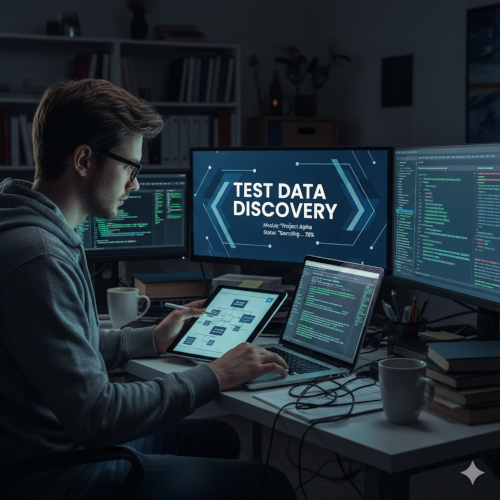
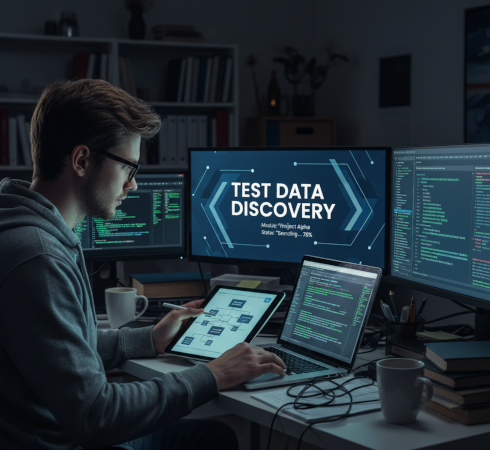
DT_01

diff --git a/index.html b/index.html
@@ -2,6 +2,8 @@
 <html lang="es" itemscope itemtype="https://schema.org/WebApplication">
 
 <head>
+    <meta charset="utf-8">
+    <meta name="viewport" content="width=device-width, initial-scale=1, shrink-to-fit=no">
     <!-- Google Analytics / Tag Manager -->
     <script async src="https://www.googletagmanager.com/gtag/js?id=G-YPGC69YD28"></script>
     <script>
@@ -17,6 +19,10 @@
     <meta name="description" content="Genera números de NIF, NIE y CIF válidos para pruebas y desarrollo. Herramienta gratuita online para validar y generar documentos de identificación españoles. Sin registro, uso inmediato.">
     <meta name="keywords" content="generador nif, generador nie, generador cif, generador dni, validar nif, validar nie, validar cif, validar dni, nif aleatorio, nie aleatorio, cif aleatorio, dni aleatorio, documento identidad españa, numero identificacion, herramientas desarrollo, pruebas software, validadores online, generadores gratis">
     <meta name="author" content="AdminKeys Develop">
+    <meta name="language" content="Spanish">
+    <meta name="geo.region" content="ES">
+    <meta name="geo.placename" content="España">
+    <meta name="referrer" content="strict-origin-when-cross-origin">
     <meta name="robots" content="index, follow, max-snippet:-1, max-image-preview:large, max-video-preview:-1">
     <meta name="googlebot" content="index, follow">
     <meta name="bingbot" content="index, follow">
@@ -29,9 +35,11 @@
     <meta property="og:url" content="https://generadordata.com/">
     <meta property="og:title" content="Generador de NIF, NIE y CIF Gratis | Validadores Online">
     <meta property="og:description" content="Genera números de NIF, NIE y CIF válidos para pruebas y desarrollo. Herramienta gratuita online para validar documentos de identificación españoles.">
-    <meta property="og:image" content="https://generadordata.com/assets/img/logoGeneradorData.png">
+    <meta property="og:image" content="https://generadordata.com/assets/img/Banner1200.png">
+    <meta property="og:image:secure_url" content="https://generadordata.com/assets/img/Banner1200.png">
     <meta property="og:image:width" content="1200">
-    <meta property="og:image:height" content="630">
+    <meta property="og:image:height" content="600">
+    <meta property="og:image:alt" content="GeneradorData: generador y validador gratuito de NIF, NIE, CIF y DNI">
     <meta property="og:site_name" content="GeneradorData">
     <meta property="og:locale" content="es_ES">
     
@@ -40,12 +48,11 @@
     <meta property="twitter:url" content="https://generadordata.com/">
     <meta property="twitter:title" content="Generador de NIF, NIE y CIF Gratis | Validadores Online">
     <meta property="twitter:description" content="Genera números de NIF, NIE y CIF válidos para pruebas y desarrollo. Herramienta gratuita online para validar documentos de identificación españoles.">
-    <meta property="twitter:image" content="https://generadordata.com/assets/img/logoGeneradorData.png">
+    <meta property="twitter:image" content="https://generadordata.com/assets/img/Banner1200.png">
+    <meta property="twitter:image:alt" content="GeneradorData: generador y validador gratuito de NIF, NIE, CIF y DNI">
     
     <!-- Technical Meta Tags -->
-    <meta charset="utf-8">
     <meta http-equiv="X-UA-Compatible" content="IE=edge">
-    <meta name="viewport" content="width=device-width, initial-scale=1, shrink-to-fit=no">
     <meta name="theme-color" content="#28a745">
     <meta name="msapplication-TileColor" content="#28a745">
     <meta name="apple-mobile-web-app-capable" content="yes">
@@ -80,10 +87,15 @@
     {
         "@context": "https://schema.org",
         "@type": "WebApplication",
+        "@id": "https://generadordata.com/#webapp",
         "name": "GeneradorData - Generador de NIF, NIE, CIF y DNI",
+        "alternateName": "GeneradorData",
         "description": "Herramienta gratuita online para generar y validar números de NIF, NIE, CIF y DNI españoles para pruebas y desarrollo",
-        "url": "https://generadordata.com",
+        "url": "https://generadordata.com/",
+        "inLanguage": "es-ES",
+        "isAccessibleForFree": true,
         "applicationCategory": "DeveloperApplication",
+        "applicationSubCategory": "Generador de datos de prueba",
         "operatingSystem": "Web Browser",
         "offers": {
             "@type": "Offer",
@@ -110,7 +122,32 @@
             "Validación de documentos",
             "Historial de generaciones",
             "Uso gratuito"
-        ]
+        ],
+        "potentialAction": {
+            "@type": "UseAction",
+            "target": "https://generadordata.com/"
+        }
+    }
+    </script>
+    <script type="application/ld+json">
+    {
+        "@context": "https://schema.org",
+        "@type": "WebSite",
+        "@id": "https://generadordata.com/#website",
+        "name": "GeneradorData",
+        "url": "https://generadordata.com/",
+        "inLanguage": "es-ES",
+        "publisher": {
+            "@type": "Organization",
+            "name": "GeneradorData",
+            "url": "https://generadordata.com/",
+            "logo": {
+                "@type": "ImageObject",
+                "url": "https://generadordata.com/assets/img/logoGeneradorData.png",
+                "width": 124,
+                "height": 124
+            }
+        }
     }
     </script>
 </head>
@@ -140,8 +177,8 @@
     <nav class="navbar navbar-expand-lg navbar-light shadow">
         <div class="container d-flex justify-content-between align-items-center">
       <div class="col-md-2">
-         <a class="navbar-brand text-success logo h1 align-self-center" >
-            <img src="assets/img/logoGeneradorData.png" alt="GeneradorData Logo">
+         <a class="navbar-brand text-success logo h1 align-self-center" href="/" aria-label="GeneradorData - Inicio">
+            <img src="assets/img/logoGeneradorData.png" alt="GeneradorData">
          </a>
       </div>
                 <div class="col-md-10 d-flex align-items-center" role="alert" style="cursor: pointer;">
@@ -163,8 +200,8 @@
                 </div>
                 
                 <!-- Generator Tools -->
-                <div class="row">
-                    <article class="col-12 col-md-3 mb-4">
+                <div class="row" id="generadores">
+                    <article class="col-12 col-md-3 mb-4" id="generador-dni">
                         <div class="card h-100">
                             <div class="card-body">
                                 <h2 class="h2 text-decoration-none text-dark">Generador de DNI</h2>
@@ -184,7 +221,7 @@
                         </div>
                     </article>
 
-                    <article class="col-12 col-md-3 mb-4">
+                    <article class="col-12 col-md-3 mb-4" id="generador-nif">
                         <div class="card h-100">
                             <div class="card-body">
                                 <h2 class="h2 text-decoration-none text-dark">Generador de NIF</h2>
@@ -204,7 +241,7 @@
                         </div>
                     </article>
                     
-                    <article class="col-12 col-md-3 mb-4">
+                    <article class="col-12 col-md-3 mb-4" id="generador-nie">
                         <div class="card h-100">
                             <div class="card-body">
                                 <h2 class="h2 text-decoration-none text-dark">Generador de NIE</h2>
@@ -224,7 +261,7 @@
                         </div>
                     </article>
                     
-                    <article class="col-12 col-md-3 mb-4">
+                    <article class="col-12 col-md-3 mb-4" id="generador-cif">
                         <div class="card h-100">
                             <div class="card-body">
                                 <h2 class="h2 text-decoration-none text-dark">Generador de CIF</h2>
@@ -246,13 +283,13 @@
                 </div>
 
                 <!-- Validator Tools -->
-                <div class="row">
-                    <article class="col-12 col-md-3 mb-4 validator-card">
+                <div class="row" id="validadores">
+                    <article class="col-12 col-md-3 mb-4 validator-card" id="validador-dni">
                         <div class="card h-100">
                             <div class="card-body">
                                 <h2 class="h2 text-decoration-none text-dark">Validador de DNI</h2>
                                 <div class="py-sm-3 services-copi-icon-wap shadow mb-3">
-                                    <input type="text" class="form-control validator-input" id="dniValidatorInput" placeholder="Introduce un DNI">
+                                    <input type="text" class="form-control validator-input" id="dniValidatorInput" placeholder="Introduce un DNI" inputmode="text" autocomplete="off" aria-label="Introduce un DNI para validar">
                                 </div>
                                 <div id="validateDniButton" class="py-1 services-icon-wap shadow" style="cursor: pointer;" role="button" tabindex="0" aria-label="Validar DNI">
                                     <div class="h3 text-success text-center">Validar</div>
@@ -261,12 +298,12 @@
                             </div>
                         </div>
                     </article>
-                    <article class="col-12 col-md-3 mb-4 validator-card">
+                    <article class="col-12 col-md-3 mb-4 validator-card" id="validador-nif">
                         <div class="card h-100">
                             <div class="card-body">
                                 <h2 class="h2 text-decoration-none text-dark">Validador de NIF</h2>
                                 <div class="py-sm-3 services-copi-icon-wap shadow mb-3">
-                                    <input type="text" class="form-control validator-input" id="nifValidatorInput" placeholder="Introduce un NIF">
+                                    <input type="text" class="form-control validator-input" id="nifValidatorInput" placeholder="Introduce un NIF" inputmode="text" autocomplete="off" aria-label="Introduce un NIF para validar">
                                 </div>
                                 <div id="validateNifButton" class="py-1 services-icon-wap shadow" style="cursor: pointer;" role="button" tabindex="0" aria-label="Validar NIF">
                                     <div class="h3 text-success text-center">Validar</div>
@@ -275,12 +312,12 @@
                             </div>
                         </div>
                     </article>
-                    <article class="col-12 col-md-3 mb-4 validator-card">
+                    <article class="col-12 col-md-3 mb-4 validator-card" id="validador-nie">
                         <div class="card h-100">
                             <div class="card-body">
                                 <h2 class="h2 text-decoration-none text-dark">Validador de NIE</h2>
                                 <div class="py-sm-3 services-copi-icon-wap shadow mb-3">
-                                    <input type="text" class="form-control validator-input" id="nieValidatorInput" placeholder="Introduce un NIE">
+                                    <input type="text" class="form-control validator-input" id="nieValidatorInput" placeholder="Introduce un NIE" inputmode="text" autocomplete="off" aria-label="Introduce un NIE para validar">
                                 </div>
                                 <div id="validateNieButton" class="py-1 services-icon-wap shadow" style="cursor: pointer;" role="button" tabindex="0" aria-label="Validar NIE">
                                     <div class="h3 text-success text-center">Validar</div>
@@ -289,12 +326,12 @@
                             </div>
                         </div>
                     </article>
-                    <article class="col-12 col-md-3 mb-4 validator-card">
+                    <article class="col-12 col-md-3 mb-4 validator-card" id="validador-cif">
                         <div class="card h-100">
                             <div class="card-body">
                                 <h2 class="h2 text-decoration-none text-dark">Validador de CIF</h2>
                                 <div class="py-sm-3 services-copi-icon-wap shadow mb-3">
-                                    <input type="text" class="form-control validator-input" id="cifValidatorInput" placeholder="Introduce un CIF">
+                                    <input type="text" class="form-control validator-input" id="cifValidatorInput" placeholder="Introduce un CIF" inputmode="text" autocomplete="off" aria-label="Introduce un CIF para validar">
                                 </div>
                                 <div id="validateCifButton" class="py-1 services-icon-wap shadow" style="cursor: pointer;" role="button" tabindex="0" aria-label="Validar CIF">
                                     <div class="h3 text-success text-center">Validar</div>
@@ -387,7 +424,7 @@
                 <div class="col-md-4 pt-5">
                     <h2 class="h2 text-light border-bottom pb-3 border-light">Enlaces Útiles</h2>
                     <ul class="list-unstyled text-light footer-link-list">
-                        <li><a class="text-decoration-none" href="/index.html">Inicio</a></li>
+                        <li><a class="text-decoration-none" href="/">Inicio</a></li>
                         <li><a class="text-decoration-none" href="/about.html">Acerca de</a></li>
                         <li><a class="text-decoration-none" href="/rgpd.html">Política de Privacidad</a></li>
                     </ul>
@@ -396,9 +433,10 @@
                 <div class="col-md-4 pt-5">
                     <h2 class="h2 text-light border-bottom pb-3 border-light">Herramientas</h2>
                     <ul class="list-unstyled text-light footer-link-list">
-                        <li><a class="text-decoration-none" href="/">Generador NIF</a></li>
-                        <li><a class="text-decoration-none" href="/">Generador NIE</a></li>
-                        <li><a class="text-decoration-none" href="/">Generador CIF</a></li>
+                        <li><a class="text-decoration-none" href="/#generador-dni">Generador DNI</a></li>
+                        <li><a class="text-decoration-none" href="/#generador-nif">Generador NIF</a></li>
+                        <li><a class="text-decoration-none" href="/#generador-nie">Generador NIE</a></li>
+                        <li><a class="text-decoration-none" href="/#generador-cif">Generador CIF</a></li>
                     </ul>
                 </div>
 
